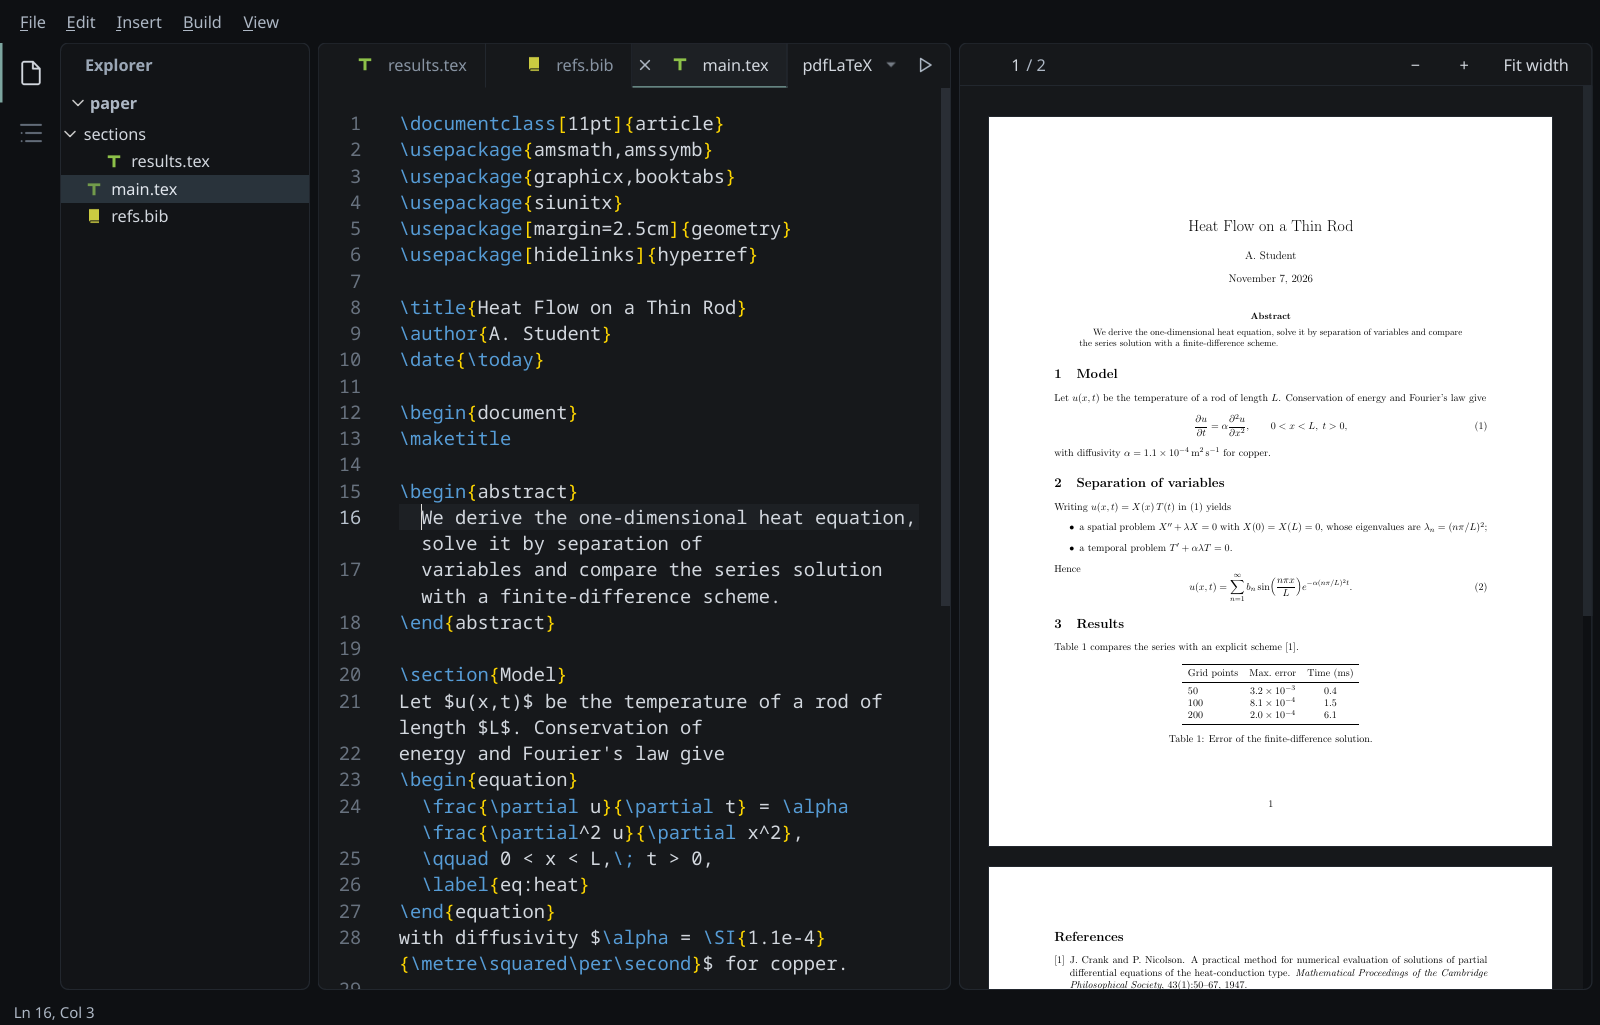
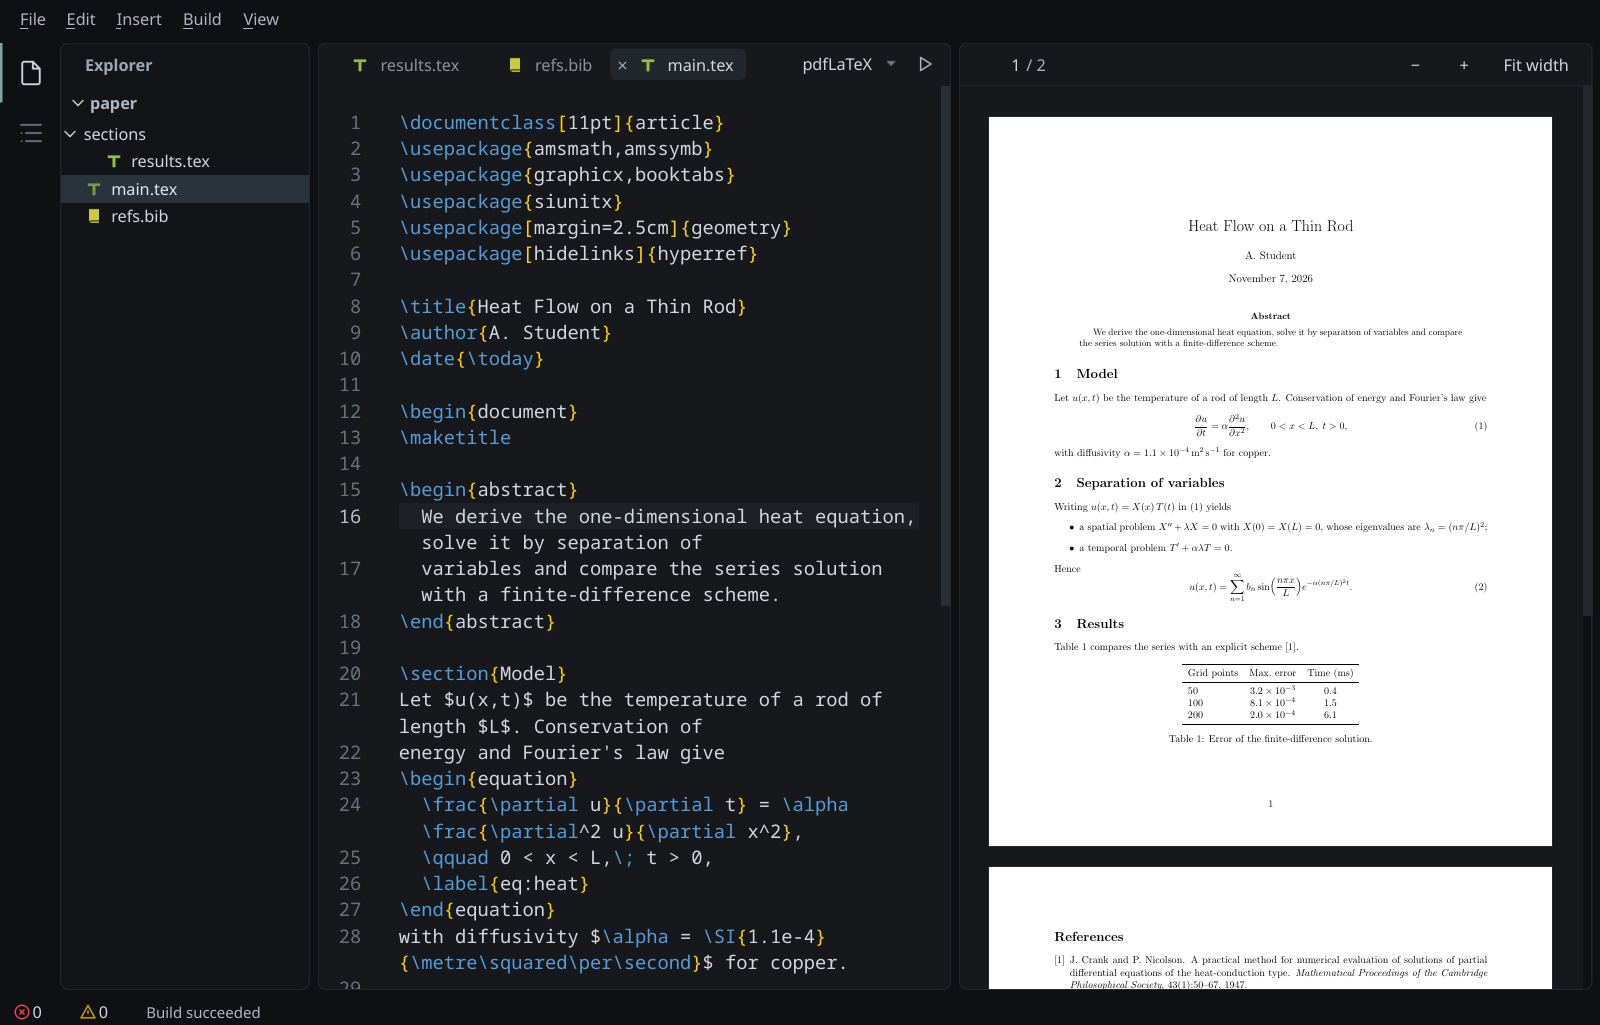
Update README screenshot for 0.5.0
Same sample paper as before, rebuilt with F5 inside the app: pill tabs,
explorer, word wrap, PDF and the problem counters after a clean build.
Offscreen at scale 1.25, 1600x1025.

diff --git a/README.md b/README.md
@@ -7,7 +7,7 @@ Qt 6 Widgets and Poppler. It aims to start fast, stay light on memory, render PD
 sharply at any display scale and scroll smoothly — while covering the everyday
 LaTeX workflow: edit, build, preview, jump between source and PDF.
 
-![Folitex 0.4 editing a LaTeX paper next to its PDF, with word wrap and the explorer open](docs/screenshot.png)
+![Folitex 0.5 editing a LaTeX paper next to its PDF, with word wrap, the explorer and a successful build](docs/screenshot.png)
 
 > Folitex was previously developed as **TeXLite**. Its behaviour was informed by
 > studying TeXstudio and VS Code; it contains no code from either project and is
